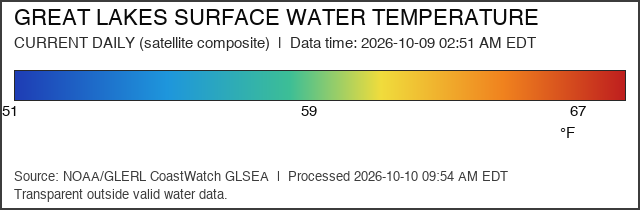
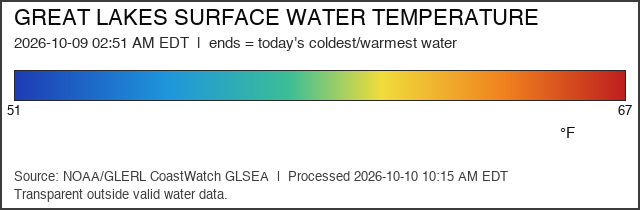
Water temperature: legend states percentile ends explicitly

diff --git a/scripts/build_water_temperature.py b/scripts/build_water_temperature.py
@@ -339,7 +339,7 @@ def _build(info, raw_path, source_id, preview_dir=None, font_size=7,
     # Style rides the version token (same-cycle restyles change the ?v=
     # URL so caches cannot serve old pixels). TEXT_REV bumps on any
     # label change.
-    meta["source_version"] = source_token(f"{source_id}-r{RENDER_VERSION}-tempvals-tx1")
+    meta["source_version"] = source_token(f"{source_id}-r{RENDER_VERSION}-tempvals-tx2")
     meta["label_method"] = (
         "Actual °F values (e.g. 45°F) in white mono with a dark outline, "
         "free placement: data-seeded jittered candidates (positions move "
@@ -355,12 +355,13 @@ def _build(info, raw_path, source_id, preview_dir=None, font_size=7,
     field, rgba, meta = render_field(
         PRODUCT, lats, lons, values_f, vmin, vmax, meta,
         title=CONFIG["title"],
-        subtitle=(f"{CONFIG['freshness_label']}  |  Data time: "
-                  f"{data_time_iso or 'see metadata'}"),
+        subtitle=(f"{data_time_iso or 'see metadata'}  |  ends = "
+                 f"today's coldest/warmest water"),
         source_line=(f"Source: NOAA/GLERL CoastWatch GLSEA  |  "
                      f"Processed {now_det_str()}"),
         unit_label="\u00b0F", transparent_value=None, fmt="{:.0f}",
-        splat_radius=1, product_dir=stage_prod)
+        splat_radius=1, product_dir=stage_prod,
+        tick_labels=[(vmin, f"{vmin:g}"), (vmax, f"{vmax:g}")])
 
     if int((rgba[:, :, 3] > 0).sum()) < 10_000:
         print(f"[{PRODUCT}] VALIDATION FAILED: raster has no water pixels.")
@@ -431,7 +432,12 @@ def _build(info, raw_path, source_id, preview_dir=None, font_size=7,
                   f"(deep blue) → <b>{mid_f:g}°F</b> → warm <b>{vmax:g}°F</b> "
                   f"(red). Lakewide mean this run: "
                   f"<b>{round(float(np.mean(f_vals)), 1)}°F</b>. White halo "
-                  f"numbers are actual °F at that spot.")
+                  f"numbers are actual °F at that spot. The bar ends are "
+                  f"recomputed every run from that day's water (1st/99th "
+                  f"percentiles, clamped 32–86°F): blue always means the "
+                  f"coldest water present and red the warmest, but the same "
+                  f"color can stand for a different °F on different days — "
+                  f"only the printed numbers are absolute.")
     meta["legend_scale_html"] = scale_html
     write_metadata(stage_prod, meta)  # re-write incl. buoy QC + legend text
 
